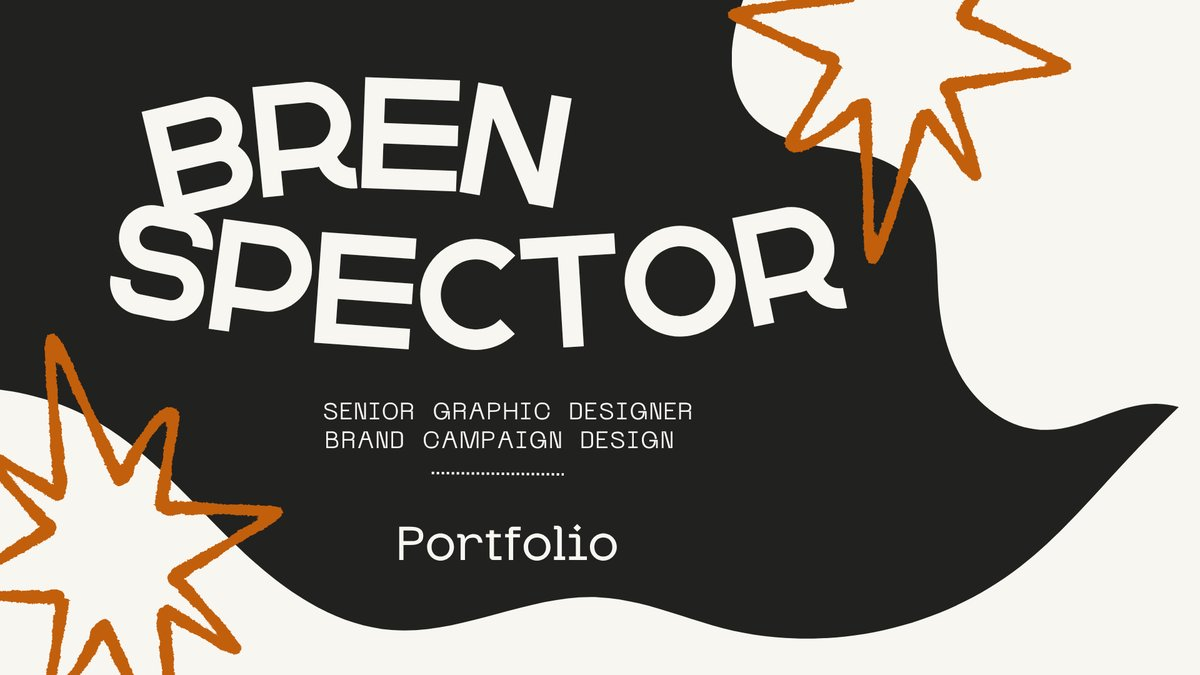
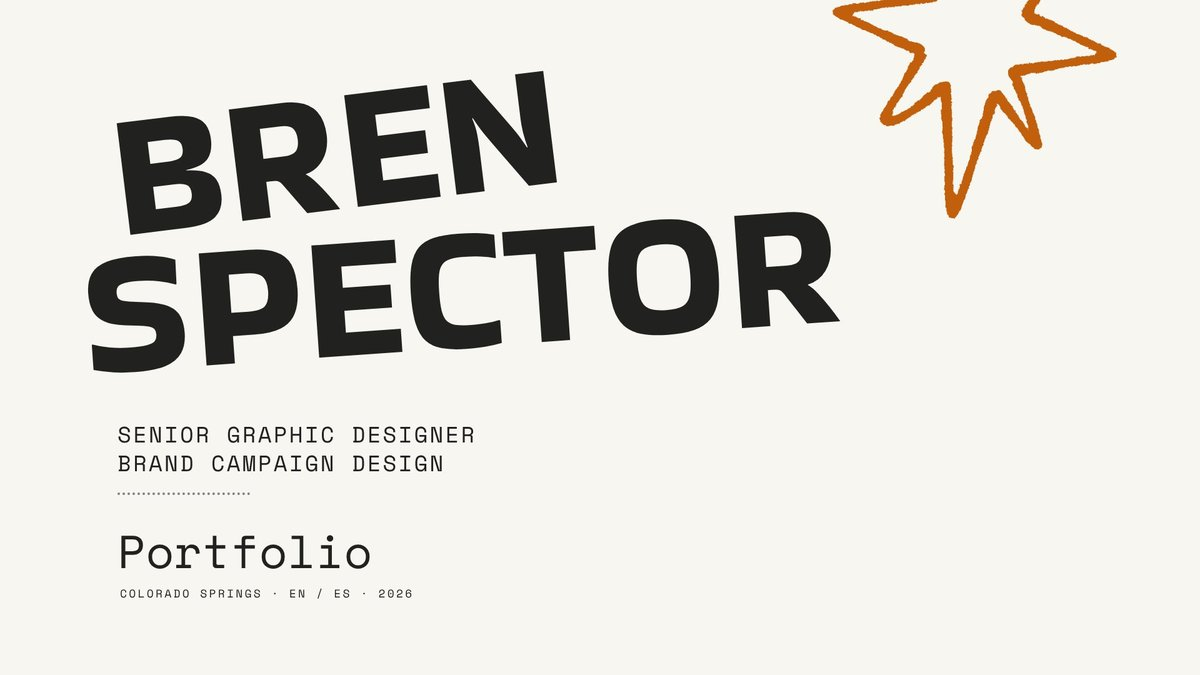
Cleaner cover, How I See It, and Thank You pages
Claude-Session: https://claude.ai/code/session_018WtTTL8vv3fxFjCsvYoeKi

diff --git a/index.html b/index.html
@@ -94,19 +94,19 @@ h1,h2{margin:0;font-family:var(--display);font-weight:400;line-height:1;letter-s
 }
 
 /* ---------- 1 · cover (page px / 20 = rem) ---------- */
-#hero{background:var(--paper);color:var(--paper)}
+#hero{background:var(--paper);color:var(--ink)}
 #hero .blob{transform-origin:50% 50%}
 #hero .blob-simple{left:1rem;top:.6rem;width:94rem;height:53rem;background:var(--ink);border-radius:34% 66% 50% 50% / 38% 40% 60% 62%;z-index:0}
-#hero .star-a{left:57.5rem;top:0;width:29rem;transform-origin:50% 55%}
+#hero .star-a{left:66rem;top:0;width:24rem;transform-origin:50% 55%}
 #hero .star-b{left:0;top:26rem;width:23.5rem;transform-origin:45% 50%}
 .name{font-size:14.2rem;line-height:1}
 .name span{position:absolute;display:block;white-space:nowrap;transform-origin:left center}
-.name .l1{left:13rem;top:5rem;--rot:-7deg;transform:rotate(var(--rot))}
-.name .l2{left:10rem;top:16rem;--rot:-4deg;transform:rotate(var(--rot))}
-.role{left:27rem;top:32.8rem;font-family:var(--mono);text-transform:uppercase;letter-spacing:.09em;font-size:1.78rem;line-height:1.3;white-space:nowrap}
-.dotline{left:35.7rem;top:38.8rem;width:10.6rem;border:0;border-top:.22rem dotted currentColor}
-.word{left:32.7rem;top:42.2rem;font-family:var(--mono);font-size:3.7rem;line-height:1}
-.meta{left:32.9rem;top:46.8rem;font-family:var(--mono);font-size:.9rem;letter-spacing:.18em;text-transform:uppercase;opacity:.85;white-space:nowrap}
+.name .l1{left:9rem;top:7rem;--rot:-7deg;transform:rotate(var(--rot))}
+.name .l2{left:6.6rem;top:18rem;--rot:-4deg;transform:rotate(var(--rot))}
+.role{left:9.4rem;top:33.6rem;font-family:var(--mono);text-transform:uppercase;letter-spacing:.09em;font-size:1.78rem;line-height:1.3;white-space:nowrap}
+.dotline{left:9.4rem;top:39.4rem;width:10.6rem;border:0;border-top:.22rem dotted currentColor}
+.word{left:9.4rem;top:42.2rem;font-family:var(--mono);font-size:3.7rem;line-height:1}
+.meta{left:9.6rem;top:46.8rem;font-family:var(--mono);font-size:.9rem;letter-spacing:.18em;text-transform:uppercase;opacity:.85;white-space:nowrap}
 
 /* ---------- 2 · about ---------- */
 #about .visual{left:-16rem;top:0;width:61rem;height:54rem;object-fit:cover}
@@ -115,12 +115,12 @@ h1,h2{margin:0;font-family:var(--display);font-weight:400;line-height:1;letter-s
 #about .text p:first-child{text-align:left}
 
 /* ---------- 3 · how i see it ---------- */
-#how{background:var(--paper);color:var(--paper)}
+#how{background:var(--ink);color:var(--paper)}
 #how .blob{transform-origin:50% 50%}
-#how .cloud-a{left:56rem;top:3rem;width:34.5rem}
+#how .cloud-a{left:60rem;top:4rem;width:30rem;opacity:.75}
 #how .cloud-b{left:5.5rem;top:21.5rem;width:36.5rem}
-#how h2{left:0;top:9.6rem;width:96rem;text-align:center;font-size:7rem;letter-spacing:.035em}
-#how .text{left:13rem;top:19.2rem;width:70rem;font-size:1.6rem;line-height:1.35;text-align:justify;hyphens:manual;display:grid;gap:1.36em}
+#how h2{left:9.4rem;top:9.6rem;font-size:6.4rem;letter-spacing:.03em;white-space:nowrap}
+#how .text{left:9.4rem;top:19.6rem;width:58rem;font-size:1.6rem;line-height:1.4;text-align:left;hyphens:manual;display:grid;gap:1.2em}
 
 /* ---------- 4 · work (flows at its own height; the only page that is not a fixed slide) ---------- */
 #work{height:auto;min-height:100vh;display:block;padding:0 0 6rem}
@@ -143,7 +143,7 @@ h1,h2{margin:0;font-family:var(--display);font-weight:400;line-height:1;letter-s
 .t-desc{font-size:1rem;line-height:1.45;color:#3b3a37}
 
 /* ---------- 9 · thank you ---------- */
-#thanks{background:var(--ink);color:var(--ink)}
+#thanks{background:var(--sand);color:var(--ink)}
 #thanks .blob{transform-origin:30% 40%}
 #thanks .tulips{left:1rem;top:32.5rem;width:22.5rem;transform-origin:50% 100%}
 #thanks .frame{left:65.5rem;top:2.5rem;width:30.5rem}
@@ -155,7 +155,7 @@ h1,h2{margin:0;font-family:var(--display);font-weight:400;line-height:1;letter-s
 #thanks .signoff{left:24.75rem;top:40.4rem;white-space:nowrap;font-family:var(--mono);text-transform:uppercase;font-size:1.6rem;line-height:1.15;letter-spacing:.04em}
 #thanks .dotline{left:39.5rem;top:43.6rem;width:9.6rem;border:0;border-top:.22rem dotted var(--ink)}
 #thanks .sig{left:52.5rem;top:41rem;font-family:var(--mono);font-size:3.8rem;line-height:1}
-#thanks .credit{left:65.5rem;top:50.6rem;width:30rem;text-align:right;font-family:var(--mono);font-size:.8rem;letter-spacing:.16em;text-transform:uppercase;color:var(--paper);opacity:.7}
+#thanks .credit{left:65.5rem;top:50.6rem;width:30rem;text-align:right;font-family:var(--mono);font-size:.8rem;letter-spacing:.16em;text-transform:uppercase;color:var(--ink);opacity:.6}
 #thanks .contact{left:24.75rem;top:46.6rem;display:flex;gap:.7rem;align-items:center;font-family:var(--mono);font-size:1rem}
 .contact .email{padding:.45em .9em;border:.1rem solid var(--ink);border-radius:999px;user-select:all}
 .contact button{appearance:none;border:0;background:var(--ink);color:var(--paper);font:inherit;padding:.55em 1em;border-radius:999px;cursor:pointer;letter-spacing:.06em;text-transform:uppercase;font-size:.8em}
@@ -206,10 +206,8 @@ body.lb-open{overflow:hidden}
   .stage > *{position:relative!important;left:auto!important;top:auto!important;width:auto!important;height:auto!important;max-width:100%;white-space:normal!important;transform:none!important}
   .stage > img{width:100%!important;height:auto!important}
   .full,#hero .blob-simple{display:none}
-  #hero{background:var(--ink)}
-  #hero .star-a,#hero .star-b{position:absolute!important;width:36vw!important;z-index:0}
-  #hero .star-a{right:-8vw;top:60px!important}
-  #hero .star-b{left:-10vw!important;bottom:-8vw;top:auto!important}
+  #hero{background:var(--paper)}
+  #hero .star-a{position:absolute!important;width:36vw!important;z-index:0;right:-8vw;top:60px!important;left:auto!important}
   .name{font-size:clamp(3.4rem,17vw,6rem);display:grid;z-index:1}
   .name span{position:static!important;transform:none!important}
   .name .l1{padding-left:.2em}
@@ -225,7 +223,7 @@ body.lb-open{overflow:hidden}
   #how .cloud-b{display:none}
   #how h2{font-size:2.8rem;text-align:left;z-index:1}
   #how .text{font-size:1.05rem;text-align:left;gap:1em}
-  #thanks{background:var(--ink)}
+  #thanks{background:var(--sand)}
   #thanks .stage{background:var(--sand);padding-top:88px}
   #thanks .tulips,#thanks .frame{display:none}
   #thanks .photo{width:min(100%,320px)!important;aspect-ratio:404/500;object-fit:cover;border:10px solid var(--rust);border-radius:4px}
@@ -275,9 +273,7 @@ body.lb-open{overflow:hidden}
 <!-- 1 · cover -->
 <section class="scene" id="hero" aria-label="Cover">
   <div class="stage">
-    <div class="blob blob-simple" data-anim="grow"></div>
     <img class="star-a" src="img/hero-star-a.png" alt="" data-anim="spin" style="--d:500ms" width="580" height="440">
-    <img class="star-b" src="img/hero-star-b.png" alt="" data-anim="spin" style="--d:650ms" width="470" height="560">
     <h1 class="name"><span class="l1" data-anim="drop" style="--d:250ms">Bren</span><span class="l2" data-anim="drop" style="--d:400ms">Spector</span></h1>
     <p class="role" data-anim="rise" style="--d:650ms">Senior graphic designer<br>Brand campaign design</p>
     <hr class="dotline" data-anim="wipe" style="--d:850ms">
@@ -304,9 +300,7 @@ body.lb-open{overflow:hidden}
 <!-- 3 · how i see it -->
 <section class="scene" id="how" aria-label="How I see it">
   <div class="stage">
-    <img class="full blob" src="img/how-blob.png" alt="" data-anim="grow" width="2560" height="1080" loading="lazy" decoding="async">
     <img class="cloud-a" src="img/cloud-a.png" alt="" data-anim="rise" style="--d:500ms" width="690" height="550" loading="lazy" decoding="async">
-    <img class="cloud-b" src="img/cloud-b.png" alt="" data-anim="rise" style="--d:650ms" width="730" height="620" loading="lazy" decoding="async">
     <h2 data-anim="drop" style="--d:250ms">How I see it</h2>
     <div class="text">
       <p data-anim="rise" style="--d:400ms">Every piece has someone on the other end, and I picture them first. Maybe that's someone scrolling past a new collection on their phone, or a parent reading a flyer in a clinic waiting room with a toddler on their lap. Either way, my job is to make the important thing easy to spot and fun to look at.</p>
@@ -364,7 +358,6 @@ body.lb-open{overflow:hidden}
 <!-- 9 · thank you -->
 <section class="scene" id="thanks" aria-label="Thank you">
   <div class="stage">
-    <img class="full blob" src="img/sand-blob.png" alt="" data-anim="grow" width="2560" height="1080" loading="lazy" decoding="async">
     <img class="tulips" src="img/tulips.png" alt="" data-anim="rise" style="--d:700ms" width="450" height="430" loading="lazy" decoding="async">
     <img class="frame" src="img/frame.png" alt="" data-anim="spin" style="--d:450ms" width="610" height="770" loading="lazy" decoding="async">
     <img class="photo" src="img/bren-outdoor.jpg" alt="Bren Spector standing in a grassy field, smiling" data-anim="right" style="--d:350ms" width="404" height="500" loading="lazy" decoding="async">
